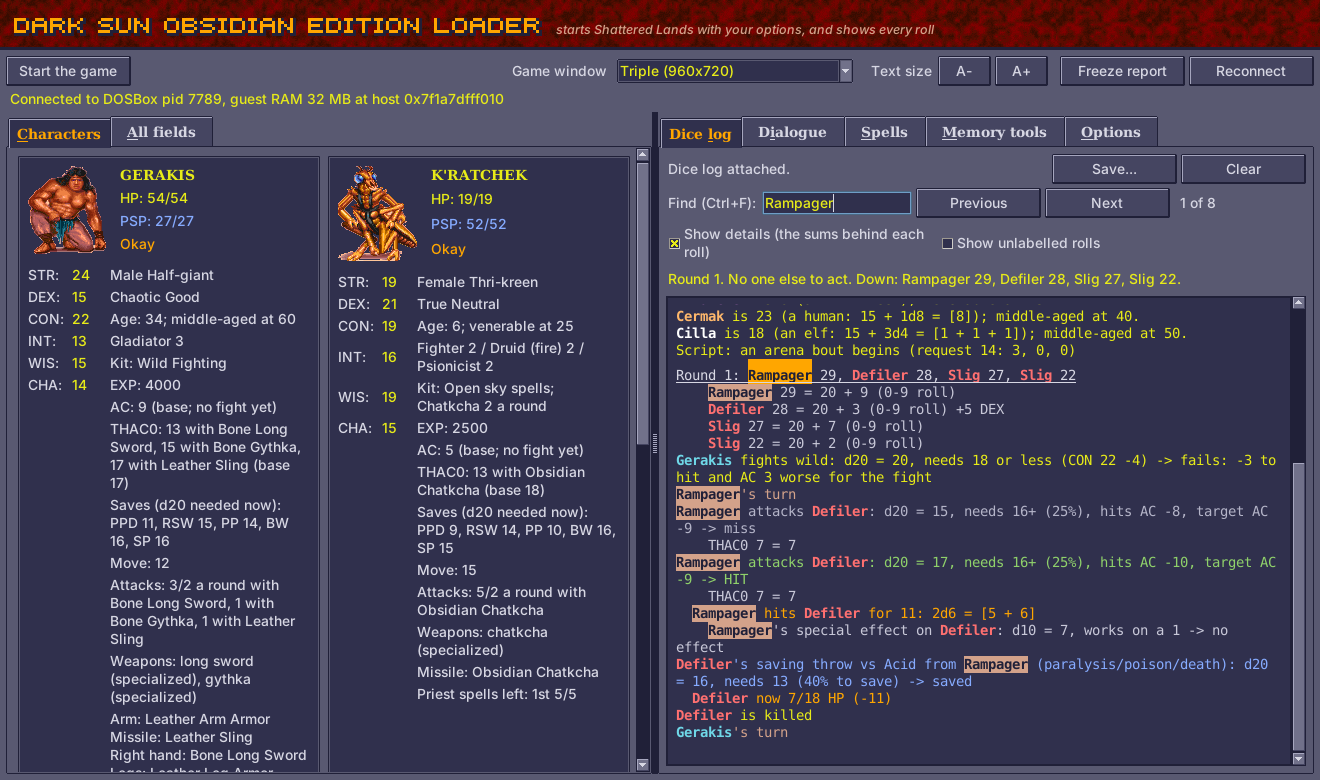
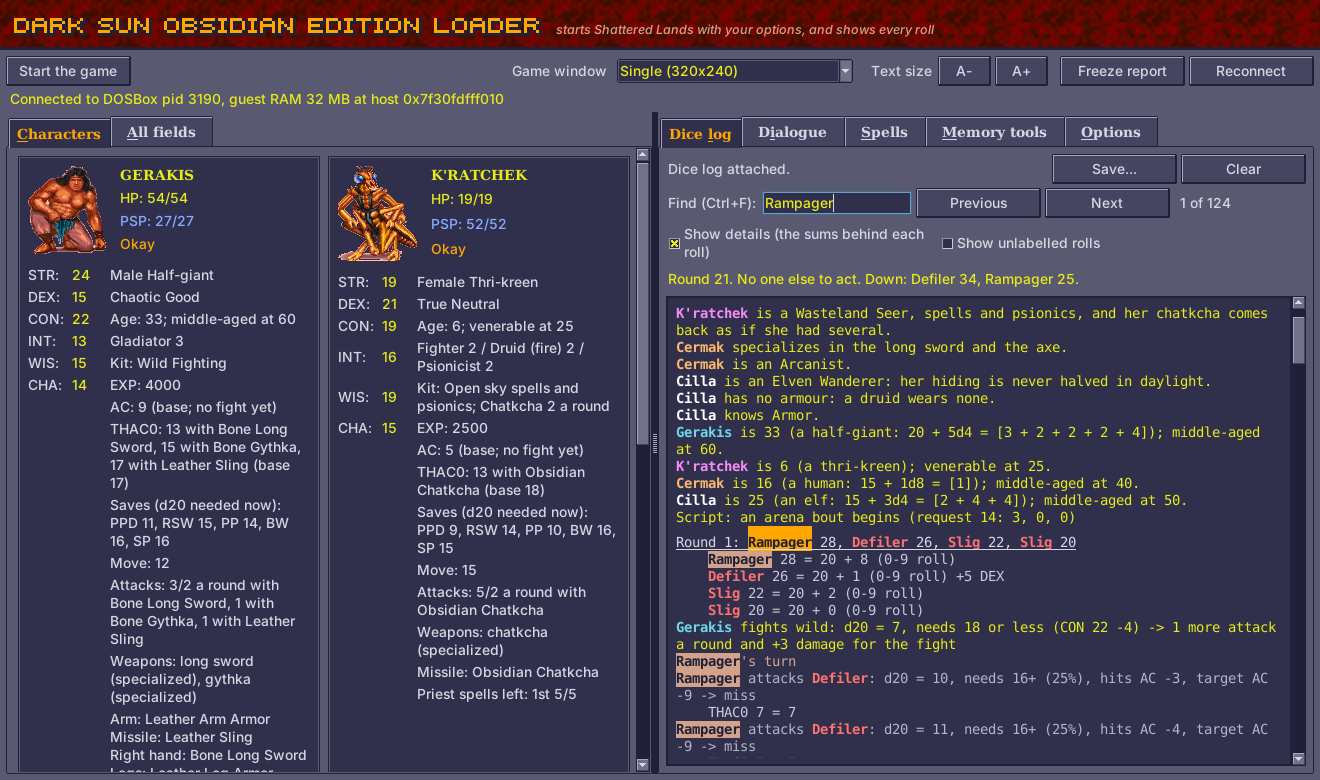
Docs review: Loader screenshots taken again, the creation THAC0's kit in the docs
Claude-Session: https://claude.ai/code/session_01BNiWkhyZSJPYsN3zRrweVp

diff --git a/patch-notes.html b/patch-notes.html
@@ -132,7 +132,7 @@ footer { max-width: 1080px; margin: 0 auto; padding-block: 28px 56px; border-top
   <main id="notes">
 <section id="in-the-games-screens">
 <h2>In the Game's Screens</h2>
-<ul><li><span class="tag new">New</span>A combat log in the game: <strong>L</strong> on the map shows every roll, in the game's own lettering and the Loader's colours, at one of three levels of detail, and <strong>L</strong> again hides it. It works in a fight or after one (a thief's roll, a new level's hit points).</li><li><span class="tag new">New</span>The combat log is a panel over the map's lower right that scrolls back (its scrollbar, or the mouse wheel on Windows), shrinks to one line or opens up with filters (All, Party, Damage, Saves).</li><li><span class="tag new">New</span>Names over figures: a spell's name floats over its caster as it is cast, "Miss" over anyone an attack misses, and "Armor: 7 left" when a spell that lasts a number of uses (Armor, Mirror Image, Reflected Image...) loses one, in the game's lettering (an Options switch, on).</li><li><span class="tag new">New</span>Out of a fight, the combat log panel's top line shows how long the game has run, <code>Day 47, 14:20</code>; in the arena, once the game has shown the count, how many arena fights the party has had instead (the game's own count, one a trip into the arena).</li><li><span class="tag new">New</span>The inventory screen shows THAC0, all five saving throws, the THAC0 with each weapon, DEX's reaction and defence adjustments, a thief's skills and, with ages on, the character's age, in the game's own lettering.</li><li><span class="tag new">New</span>The creation screen shows the THAC0, right of the hit points: <code>THAC0: M18 R19</code>, melee (with STR's to-hit) and ranged (with DEX's missile adjustment), changing as you click STR and DEX.</li><li><span class="tag new">New</span>With ages on, the creation screen shows the age a new character will start at, above RECALL: Table 7's dice, rolled again with each roll of the die (STORE and RECALL keep it with the roll).</li><li><span class="tag new">New</span>View Character shows THAC0 and saves, and for a character of several classes, which class levels up next.</li><li><span class="tag new">New</span>The USE screen shows the spell slots left at the spell level and list on show (wizard slots on the MAGE list, priest slots on the CLERIC list), and the most you get after resting.</li><li><span class="tag new">New</span>In a fight, the Look box shows a monster's hit points, AC, THAC0, alignment, magic resistance and chief defence (NEEDS +1 WEAPON, IMM FIRE COLD...). Close it to read the rest.</li><li><span class="tag new">New</span>Item boxes show a wand's charges left, and the bonus a cloak, boots or belt gives to thief skills.</li><li><span class="tag new">New</span>The Effects screen lists your kits and weapon specializations, and a Shinobi's chance to read languages; with the pointer on the icon of a spell that lasts a number of uses (Armor, Mirror Image, Reflected Image...), it says how many charges are left, for Enlarge how much more it gives (ENLARGED (+90% DICE), or DAMAGE with its rule off), and for Barkskin, Flesh Armor and Magical Vestments the armour AC they give (BARKSKIN (AC 3)).</li><li><span class="tag new">New</span>Reading a scroll on the inventory screen tells you what happened (YOU LEARN THE SPELL, YOU CAN NOT READ THE SCROLL, THAT IS NOT A SHINOBI SPELL...) on the line under the paper doll. The game showed nothing there.</li></ul>
+<ul><li><span class="tag new">New</span>A combat log in the game: <strong>L</strong> on the map shows every roll, in the game's own lettering and the Loader's colours, at one of three levels of detail, and <strong>L</strong> again hides it. It works in a fight or after one (a thief's roll, a new level's hit points).</li><li><span class="tag new">New</span>The combat log is a panel over the map's lower right that scrolls back (its scrollbar, or the mouse wheel on Windows), shrinks to one line or opens up with filters (All, Party, Damage, Saves).</li><li><span class="tag new">New</span>Names over figures: a spell's name floats over its caster as it is cast, "Miss" over anyone an attack misses, and "Armor: 7 left" when a spell that lasts a number of uses (Armor, Mirror Image, Reflected Image...) loses one, in the game's lettering (an Options switch, on).</li><li><span class="tag new">New</span>Out of a fight, the combat log panel's top line shows how long the game has run, <code>Day 47, 14:20</code>; in the arena, once the game has shown the count, how many arena fights the party has had instead (the game's own count, one a trip into the arena).</li><li><span class="tag new">New</span>The inventory screen shows THAC0, all five saving throws, the THAC0 with each weapon, DEX's reaction and defence adjustments, a thief's skills and, with ages on, the character's age, in the game's own lettering.</li><li><span class="tag new">New</span>The creation screen shows the THAC0, right of the hit points: <code>THAC0: M18 R19</code>, melee (with STR's to-hit) and ranged (with DEX's missile adjustment), the kit counted, changing as you click STR and DEX or choose a kit.</li><li><span class="tag new">New</span>With ages on, the creation screen shows the age a new character will start at, above RECALL: Table 7's dice, rolled again with each roll of the die (STORE and RECALL keep it with the roll).</li><li><span class="tag new">New</span>View Character shows THAC0 and saves, and for a character of several classes, which class levels up next.</li><li><span class="tag new">New</span>The USE screen shows the spell slots left at the spell level and list on show (wizard slots on the MAGE list, priest slots on the CLERIC list), and the most you get after resting.</li><li><span class="tag new">New</span>In a fight, the Look box shows a monster's hit points, AC, THAC0, alignment, magic resistance and chief defence (NEEDS +1 WEAPON, IMM FIRE COLD...). Close it to read the rest.</li><li><span class="tag new">New</span>Item boxes show a wand's charges left, and the bonus a cloak, boots or belt gives to thief skills.</li><li><span class="tag new">New</span>The Effects screen lists your kits and weapon specializations, and a Shinobi's chance to read languages; with the pointer on the icon of a spell that lasts a number of uses (Armor, Mirror Image, Reflected Image...), it says how many charges are left, for Enlarge how much more it gives (ENLARGED (+90% DICE), or DAMAGE with its rule off), and for Barkskin, Flesh Armor and Magical Vestments the armour AC they give (BARKSKIN (AC 3)).</li><li><span class="tag new">New</span>Reading a scroll on the inventory screen tells you what happened (YOU LEARN THE SPELL, YOU CAN NOT READ THE SCROLL, THAT IS NOT A SHINOBI SPELL...) on the line under the paper doll. The game showed nothing there.</li></ul>
 </section>
 <section id="combat">
 <h2>Combat</h2>
@@ -252,7 +252,7 @@ Obsidian Edition is a free mod for the GOG release of Dark Sun: Shattered Lands.
 - **[New]** Names over figures: a spell's name floats over its caster as it is cast, "Miss" over anyone an attack misses, and "Armor: 7 left" when a spell that lasts a number of uses (Armor, Mirror Image, Reflected Image...) loses one, in the game's lettering (an Options switch, on).
 - **[New]** Out of a fight, the combat log panel's top line shows how long the game has run, `Day 47, 14:20`; in the arena, once the game has shown the count, how many arena fights the party has had instead (the game's own count, one a trip into the arena).
 - **[New]** The inventory screen shows THAC0, all five saving throws, the THAC0 with each weapon, DEX's reaction and defence adjustments, a thief's skills and, with ages on, the character's age, in the game's own lettering.
-- **[New]** The creation screen shows the THAC0, right of the hit points: `THAC0: M18 R19`, melee (with STR's to-hit) and ranged (with DEX's missile adjustment), changing as you click STR and DEX.
+- **[New]** The creation screen shows the THAC0, right of the hit points: `THAC0: M18 R19`, melee (with STR's to-hit) and ranged (with DEX's missile adjustment), the kit counted, changing as you click STR and DEX or choose a kit.
 - **[New]** With ages on, the creation screen shows the age a new character will start at, above RECALL: Table 7's dice, rolled again with each roll of the die (STORE and RECALL keep it with the roll).
 - **[New]** View Character shows THAC0 and saves, and for a character of several classes, which class levels up next.
 - **[New]** The USE screen shows the spell slots left at the spell level and list on show (wizard slots on the MAGE list, priest slots on the CLERIC list), and the most you get after resting.

diff --git a/obsidian-edition/README.md b/obsidian-edition/README.md
@@ -438,8 +438,9 @@ change.
 
 The **creation screen** shows a THAC0 too, right of the hit points and above
 the age: `THAC0: M18 R19`, M for melee and R for ranged, the character's
-THAC0 as its classes stand less STR's to-hit adjustment (M) and DEX's missile
-adjustment (R). So a click on STR or DEX shows at once what it does to them.
+THAC0 as its classes and kit stand (a Scholar's 1 worse, a Battle Mage's a
+warrior's...) less STR's to-hit adjustment (M) and DEX's missile adjustment
+(R). So a click on STR or DEX shows at once what it does to them.
 No weapon is counted (none is held yet, and weapon specs are picked after
 DONE): it is the inventory's THAC0 before the weapon's own parts.
 - **Saves**: the d20 each needs, the character sheet's number less what the game
@@ -757,7 +758,7 @@ How it works: [DEVELOPMENT.md](DEVELOPMENT.md#the-dialogue-tab).
 
 ## The dice log
 
-![The Loader during the arena's opening show: the Characters tab with the game's own party (K'ratchek's chatkcha 5/2 attacks a round, her own second throw counted; Gerakis's age), and the dice log with Find showing the first of 8 lines naming the Rampager: the first round's initiative, Gerakis's Wild Fighting roll, and the Rampager's attacks on the Defiler, who fails his save against its acid and is killed](docs/dicelog.png)
+![The Loader during the arena's opening show: the Characters tab with the game's own party (K'ratchek's chatkcha 5/2 attacks a round, her own second throw counted, and her features, open sky spells and psionics; Gerakis's age), and the dice log with Find on the first of 124 lines naming the Rampager: the party's features and ages as the game begins, the first round's initiative, Gerakis's Wild Fighting roll (passed: one more attack a round and +3 damage), and the Rampager's first attacks on the Defiler](docs/dicelog.png)
 
 **Finding something.** Type a word in **Find** above the log (Ctrl+F puts
 you there) and press Enter: every match lights up, the log jumps to the first,

diff --git a/PATCH-NOTES.md b/PATCH-NOTES.md
@@ -30,7 +30,7 @@ Obsidian Edition is a free mod for the GOG release of Dark Sun: Shattered Lands.
 - **[New]** Names over figures: a spell's name floats over its caster as it is cast, "Miss" over anyone an attack misses, and "Armor: 7 left" when a spell that lasts a number of uses (Armor, Mirror Image, Reflected Image...) loses one, in the game's lettering (an Options switch, on).
 - **[New]** Out of a fight, the combat log panel's top line shows how long the game has run, `Day 47, 14:20`; in the arena, once the game has shown the count, how many arena fights the party has had instead (the game's own count, one a trip into the arena).
 - **[New]** The inventory screen shows THAC0, all five saving throws, the THAC0 with each weapon, DEX's reaction and defence adjustments, a thief's skills and, with ages on, the character's age, in the game's own lettering.
-- **[New]** The creation screen shows the THAC0, right of the hit points: `THAC0: M18 R19`, melee (with STR's to-hit) and ranged (with DEX's missile adjustment), changing as you click STR and DEX.
+- **[New]** The creation screen shows the THAC0, right of the hit points: `THAC0: M18 R19`, melee (with STR's to-hit) and ranged (with DEX's missile adjustment), the kit counted, changing as you click STR and DEX or choose a kit.
 - **[New]** With ages on, the creation screen shows the age a new character will start at, above RECALL: Table 7's dice, rolled again with each roll of the die (STORE and RECALL keep it with the roll).
 - **[New]** View Character shows THAC0 and saves, and for a character of several classes, which class levels up next.
 - **[New]** The USE screen shows the spell slots left at the spell level and list on show (wizard slots on the MAGE list, priest slots on the CLERIC list), and the most you get after resting.

diff --git a/CHANGELOG.md b/CHANGELOG.md
@@ -31,6 +31,8 @@ notes](PATCH-NOTES.md).
   Healer comes back only with water marked (`HEALER_BARRED`).
 - An Elementalist got a 6th-level slot at 11th without AD&D's tables, where a cleric gets none:
   only with them now (`kits.slots`' `adnd`, DSCLOG's `PROBE_SLOTS`).
+- Screenshots taken again: the Loader's dice log and Dialogue tab at the arena's opening show
+  (K'ratchek's features now "Open sky spells and psionics"), the creation screen with the THAC0.
 - Tidier: the Options tab's rule groups are in each rule's own entry (`viewer.py`), and the
   creation THAC0 uses DSCLOG's `DEX_REACTION` and `CREATURE_SCORES`. DSCLOG's image 64,784 bytes
   (+240). Tests: `test_thac0_line`, `test_edit_keeps_its_specs`, `test_slots`.
